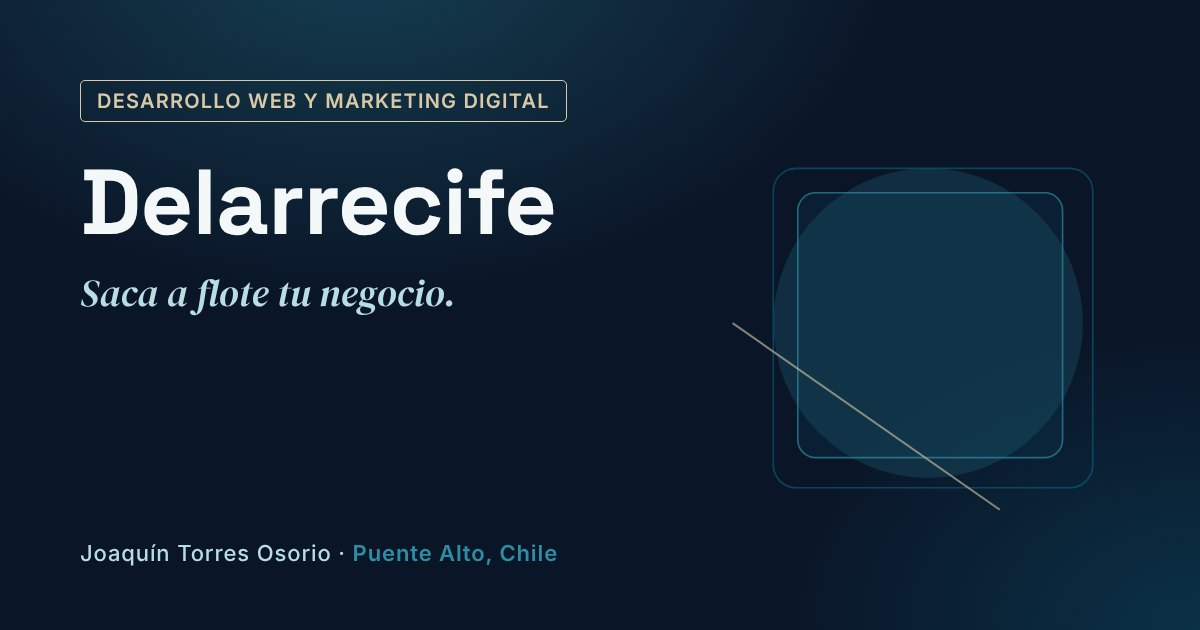
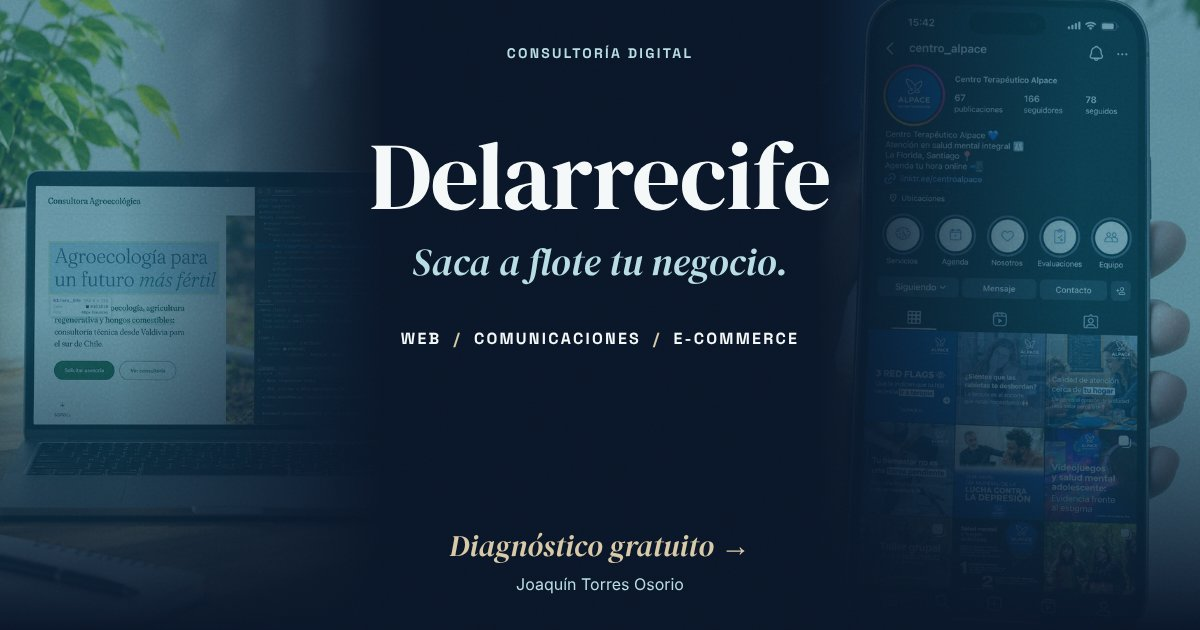
Nueva imagen para la vista previa al compartir en WhatsApp (#2)
* Rediseñar la imagen de la vista previa al compartir (WhatsApp/redes)

- Nueva og-image.jpg (1200x630, 53 KB) con nombre, lema y "Diagnóstico
  gratuito" centrados, legible también en la miniatura cuadrada de WhatsApp.
- og:image con ?v=2 para que WhatsApp y Facebook no usen la imagen en caché.
- Se agrega og:image:type y un texto alternativo más descriptivo.

Claude-Session: https://claude.ai/code/session_01KNzWaeirGpTfxsQ5e47Nxx

* Card con fotos de desarrollo web y comunicaciones (opción A)

Claude-Session: https://claude.ai/code/session_01KNzWaeirGpTfxsQ5e47Nxx

* Card con estilo editorial: líneas finas y tipografía, sin cajas redondeadas

Claude-Session: https://claude.ai/code/session_01KNzWaeirGpTfxsQ5e47Nxx

* Card: fotos con filtro azul Arrecife y fundido hacia el centro, como el hero

Claude-Session: https://claude.ai/code/session_01KNzWaeirGpTfxsQ5e47Nxx

* Card: quitar ubicación, rótulos de fotos y líneas divisorias

Claude-Session: https://claude.ai/code/session_01KNzWaeirGpTfxsQ5e47Nxx

---------

diff --git a/index.html b/index.html
@@ -20,16 +20,17 @@
 <meta property="og:site_name" content="Delarrecife">
 <meta property="og:title" content="Delarrecife — Saca a flote tu negocio">
 <meta property="og:description" content="Desarrollo web, branding, redes sociales y e-commerce para pymes de Puente Alto y Santiago. Diagnóstico gratuito.">
-<meta property="og:image" content="https://joaquintorresperiodista.github.io/delarrecife/assets/og-image.jpg">
+<meta property="og:image" content="https://joaquintorresperiodista.github.io/delarrecife/assets/og-image.jpg?v=2">
+<meta property="og:image:type" content="image/jpeg">
 <meta property="og:image:width" content="1200">
 <meta property="og:image:height" content="630">
-<meta property="og:image:alt" content="Delarrecife — Comunicación y soluciones digitales">
+<meta property="og:image:alt" content="Delarrecife: desarrollo web y marketing digital. Saca a flote tu negocio. Diagnóstico gratuito.">
 <meta property="og:url" content="https://joaquintorresperiodista.github.io/delarrecife/">
 <meta property="og:locale" content="es_CL">
 <meta name="twitter:card" content="summary_large_image">
 <meta name="twitter:title" content="Delarrecife — Saca a flote tu negocio">
 <meta name="twitter:description" content="Desarrollo web, branding, redes sociales y e-commerce para pymes de Puente Alto y Santiago. Diagnóstico gratuito.">
-<meta name="twitter:image" content="https://joaquintorresperiodista.github.io/delarrecife/assets/og-image.jpg">
+<meta name="twitter:image" content="https://joaquintorresperiodista.github.io/delarrecife/assets/og-image.jpg?v=2">
 
 <link rel="preconnect" href="https://fonts.googleapis.com">
 <link rel="preconnect" href="https://fonts.gstatic.com" crossorigin>

diff --git a/404.html b/404.html
@@ -19,16 +19,16 @@
 <meta property="og:site_name" content="Delarrecife">
 <meta property="og:title" content="Página no encontrada — Delarrecife">
 <meta property="og:description" content="La página que buscas no existe en Delarrecife.">
-<meta property="og:image" content="https://joaquintorresperiodista.github.io/delarrecife/assets/og-image.jpg">
+<meta property="og:image" content="https://joaquintorresperiodista.github.io/delarrecife/assets/og-image.jpg?v=2">
 <meta property="og:image:width" content="1200">
 <meta property="og:image:height" content="630">
-<meta property="og:image:alt" content="Delarrecife — Comunicación y soluciones digitales">
+<meta property="og:image:alt" content="Delarrecife: desarrollo web y marketing digital. Saca a flote tu negocio. Diagnóstico gratuito.">
 <meta property="og:url" content="https://joaquintorresperiodista.github.io/delarrecife/404.html">
 <meta property="og:locale" content="es_CL">
 <meta name="twitter:card" content="summary_large_image">
 <meta name="twitter:title" content="Página no encontrada — Delarrecife">
 <meta name="twitter:description" content="La página que buscas no existe en Delarrecife.">
-<meta name="twitter:image" content="https://joaquintorresperiodista.github.io/delarrecife/assets/og-image.jpg">
+<meta name="twitter:image" content="https://joaquintorresperiodista.github.io/delarrecife/assets/og-image.jpg?v=2">
 
 <link rel="preconnect" href="https://fonts.googleapis.com">
 <link rel="preconnect" href="https://fonts.gstatic.com" crossorigin>
